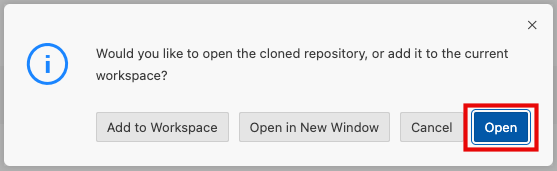
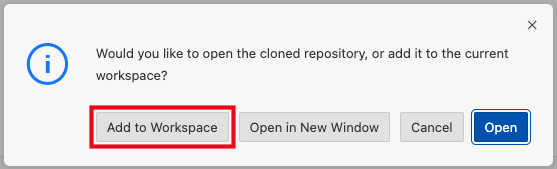
Update based on Vinay's comments

diff --git a/exercises/ex2/README.md b/exercises/ex2/README.md
@@ -18,11 +18,11 @@ Paste the repository link below into the input field and hit enter.
 https://github.com/ianquigley-sap/ai-image-samples
 ```
 
-Choose the projects folder for the repository location and click **OK**
+Choose the projects folder for the repository location and click **Select as Repository Destination**
 
 ![image](ex2img3.png)
 
-Click **Open** to open SAP Business Application Studio with the new repository
+Click **Add to Workspace** to add the repository to the current workspace.
 
 ![image](ex2img4.png)
 
